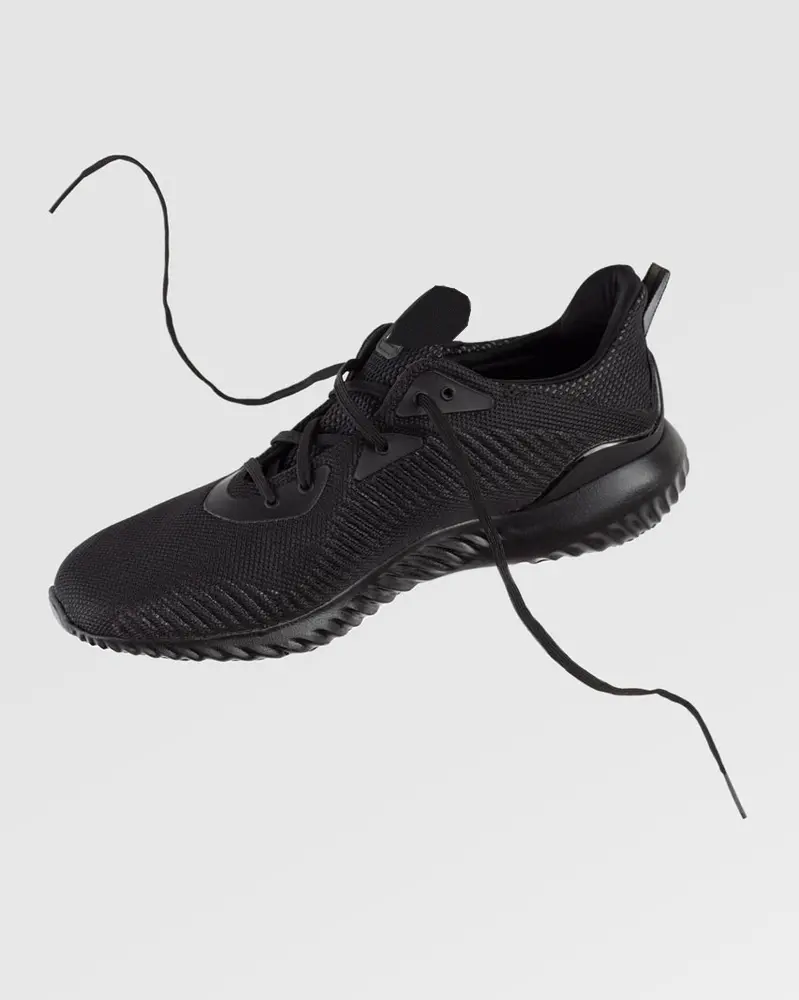
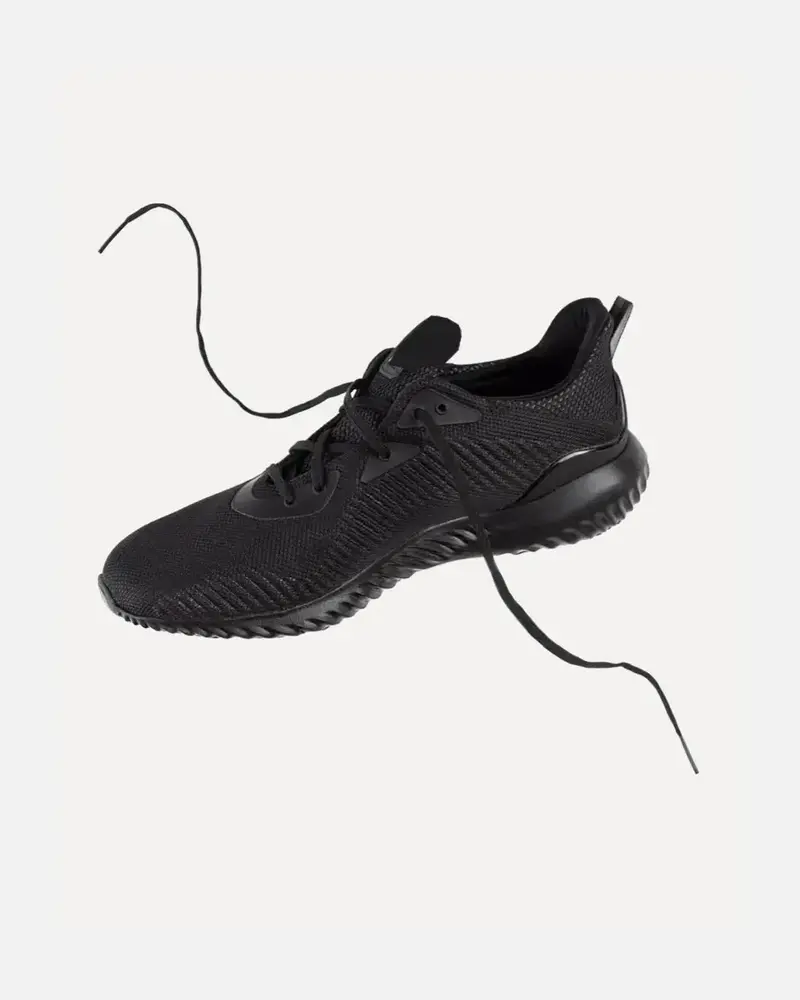
fix: polish desktop storefront
- Product photos: one neutral #f2f2f2 background and 800x1000 frame;
  sneakers reframed, bag centred, trouser shots cropped to the waistband
- ProductCard: two-line name clamp, reserved old-price line so prices
  align, discount moved next to the old price, Smart Fit moved to the
  metadata row, single-line sizes/stock row, smaller favorite button
- Visual search mockup: photo of a shoe -> visual search -> similar
  shoes only (no unrelated jacket)
- Header: "Track order" entry linking to the future /orders/track route
  (no prefetch), delivery city shown as a selectable control
- Footer: Orders and Track order links

Claude-Session: https://claude.ai/code/session_017YzJTG1c5aWEv4ukwiUPKt

diff --git a/frontend/src/components/storefront/ProductCard.tsx b/frontend/src/components/storefront/ProductCard.tsx
@@ -10,12 +10,14 @@ interface ProductCardProps {
   imageSizes: string;
 }
 
+// Visual priority: image → name → price → discount → rating / Smart Fit / stock.
 export function ProductCard({ product, imageSizes }: ProductCardProps) {
   const discount = discountPercent(product.price, product.oldPrice);
 
   return (
     <article className="group relative flex h-full flex-col overflow-hidden rounded-xl border border-line bg-white transition hover:-translate-y-0.5 hover:shadow-[0_8px_24px_rgba(27,26,25,0.08)]">
-      <div className="relative aspect-[4/5] overflow-hidden bg-[#f3f3f1]">
+      {/* All product photos share the same 4:5 frame and #f2f2f2 background. */}
+      <div className="relative aspect-[4/5] overflow-hidden bg-[#f2f2f2]">
         <Image
           src={product.image}
           alt={product.imageAlt}
@@ -23,27 +25,19 @@ export function ProductCard({ product, imageSizes }: ProductCardProps) {
           sizes={imageSizes}
           className="object-cover transition duration-300 group-hover:scale-[1.03]"
         />
-        {discount && (
-          <span className="absolute left-2.5 top-2.5 rounded-md bg-deal px-2 py-1 text-xs font-bold text-white">
-            -{discount}%
-          </span>
-        )}
-        <div className="absolute right-2.5 top-2.5 z-10">
+        <div className="absolute right-2 top-2 z-10">
           <FavoriteButton productName={product.name} />
         </div>
-        {product.smartFit && (
-          <span className="absolute bottom-2.5 left-2.5 flex items-center gap-1 rounded-md bg-fit px-2 py-1 text-[11px] font-semibold text-white">
-            <Ruler className="size-3" aria-hidden="true" />
-            Smart Fit
-          </span>
-        )}
       </div>
 
-      <div className="flex flex-1 flex-col gap-1.5 p-3.5">
-        <p className="text-[11px] font-medium uppercase tracking-wider text-muted">
+      <div className="flex flex-1 flex-col p-3">
+        <p className="truncate text-[11px] font-medium uppercase tracking-wider text-muted">
           {product.department} · {product.category}
         </p>
-        <h3 className="truncate text-sm font-semibold text-ink">
+        <h3
+          className="mt-1 line-clamp-2 min-h-10 text-sm font-semibold leading-5 text-ink"
+          title={product.name}
+        >
           {/* Product pages come later; the link keeps the card keyboard-reachable. */}
           <a
             href="#"
@@ -52,37 +46,57 @@ export function ProductCard({ product, imageSizes }: ProductCardProps) {
             {product.name}
           </a>
         </h3>
-        <p className="flex items-center gap-1 text-xs text-muted">
-          <Star className="size-3.5 fill-gold text-gold" aria-hidden="true" />
-          <span className="font-semibold text-ink">
-            {product.rating.toFixed(1)}
-          </span>
-          <span>({product.reviewCount})</span>
-          <span className="sr-only">out of 5 stars</span>
-        </p>
-        <div className="mt-auto flex flex-wrap items-baseline gap-x-2 pt-1">
-          <span
-            className={`text-base font-bold ${discount ? "text-deal" : "text-ink"}`}
+
+        <div className="mt-2">
+          <p
+            className={`text-base font-bold leading-6 ${discount ? "text-deal" : "text-ink"}`}
           >
             {formatXaf(product.price)}
-          </span>
-          {discount && product.oldPrice && (
-            <span className="text-xs text-muted line-through">
-              <span className="sr-only">Was </span>
-              {formatXaf(product.oldPrice)}
-            </span>
-          )}
+          </p>
+          {/* Reserved line keeps prices aligned whether or not an item is discounted. */}
+          <p className="flex h-5 items-center gap-1.5 text-xs">
+            {discount && product.oldPrice && (
+              <>
+                <span className="truncate text-muted line-through">
+                  <span className="sr-only">Was </span>
+                  {formatXaf(product.oldPrice)}
+                </span>
+                <span className="shrink-0 rounded bg-deal-soft px-1 font-bold text-deal">
+                  -{discount}%
+                </span>
+              </>
+            )}
+          </p>
         </div>
-        <p className="flex flex-wrap items-center justify-between gap-x-2 text-[11px]">
-          <span className="whitespace-nowrap text-muted">
-            {sizeHint(product.sizes)}
-          </span>
-          {product.stockHint && (
-            <span className="whitespace-nowrap font-semibold text-deal">
-              {product.stockHint}
+
+        <div className="mt-auto space-y-1 border-t border-line/70 pt-2 text-[11px]">
+          <p className="flex items-center justify-between gap-2">
+            <span className="flex items-center gap-1 text-muted">
+              <Star className="size-3 fill-gold text-gold" aria-hidden="true" />
+              <span className="font-semibold text-ink">
+                {product.rating.toFixed(1)}
+              </span>
+              <span>({product.reviewCount})</span>
+              <span className="sr-only">out of 5 stars</span>
             </span>
-          )}
-        </p>
+            {product.smartFit && (
+              <span className="flex shrink-0 items-center gap-1 font-semibold text-fit">
+                <Ruler className="size-3" aria-hidden="true" />
+                Smart Fit
+              </span>
+            )}
+          </p>
+          <p className="flex items-center justify-between gap-2">
+            <span className="min-w-0 truncate text-muted">
+              {sizeHint(product.sizes)}
+            </span>
+            {product.stockHint && (
+              <span className="shrink-0 font-semibold text-deal">
+                {product.stockHint}
+              </span>
+            )}
+          </p>
+        </div>
       </div>
     </article>
   );

diff --git a/frontend/src/components/storefront/VisualSearchBanner.tsx b/frontend/src/components/storefront/VisualSearchBanner.tsx
@@ -1,6 +1,8 @@
 import Image from "next/image";
 import {
+  ArrowDown,
   Camera,
+  Footprints,
   Globe,
   ImageIcon,
   ScanSearch,
@@ -20,11 +22,21 @@ const sources: { label: string; icon: LucideIcon }[] = [
   { label: "In real life", icon: Store },
 ];
 
-const similarItems = products.filter((p) =>
-  ["urban-runner-02", "flex-knit-runner", "city-bomber-jacket"].includes(
-    p.slug,
-  ),
-);
+// The scanned object is a sneaker, so every match shown is footwear.
+const similarShoes = products
+  .filter((p) => p.department === "Shoes")
+  .slice(0, 2);
+
+function FlowStep({ number, label }: { number: number; label: string }) {
+  return (
+    <p className="flex items-center gap-2 text-xs font-bold uppercase tracking-wider text-muted">
+      <span className="flex size-5 items-center justify-center rounded-full bg-cream text-[11px] text-ink">
+        {number}
+      </span>
+      {label}
+    </p>
+  );
+}
 
 export function VisualSearchBanner() {
   return (
@@ -75,10 +87,11 @@ export function VisualSearchBanner() {
             </div>
           </div>
 
-          {/* Illustration of the planned flow, built from local demo products. */}
+          {/* Illustration of the planned flow: photo of a shoe → visual search → similar shoes. */}
           <div aria-hidden="true" className="mx-auto w-full max-w-md">
             <div className="rounded-2xl bg-white p-4 text-ink">
-              <div className="relative aspect-[4/3] overflow-hidden rounded-xl bg-[#f6f6f6]">
+              <FlowStep number={1} label="Photo of a shoe" />
+              <div className="relative mt-2 aspect-[16/10] overflow-hidden rounded-xl bg-[#f2f2f2]">
                 <Image
                   src="/images/categories/sneakers.webp"
                   alt=""
@@ -86,21 +99,26 @@ export function VisualSearchBanner() {
                   sizes="420px"
                   className="object-cover"
                 />
-                <span className="absolute left-[22%] top-[24%] h-[52%] w-[56%] rounded-lg border-2 border-dashed border-deal" />
-                <span className="absolute left-3 top-3 rounded-md bg-ink px-2 py-1 text-[11px] font-semibold text-white">
-                  Your photo
-                </span>
+                <span className="absolute left-[18%] top-[12%] h-[76%] w-[64%] rounded-lg border-2 border-dashed border-deal" />
               </div>
-              <p className="mt-4 text-xs font-bold uppercase tracking-wider text-muted">
-                Similar items
-              </p>
+
+              <div className="my-3 flex items-center gap-3">
+                <span className="h-px flex-1 bg-line" />
+                <span className="flex items-center gap-1.5 rounded-full bg-ink px-3 py-1.5 text-[11px] font-semibold text-white">
+                  <ScanSearch className="size-3.5" />2 · Visual search
+                  <ArrowDown className="size-3.5" />
+                </span>
+                <span className="h-px flex-1 bg-line" />
+              </div>
+
+              <FlowStep number={3} label="Similar shoes" />
               <ul className="mt-2 grid grid-cols-3 gap-2">
-                {similarItems.map((item) => (
+                {similarShoes.map((item) => (
                   <li
                     key={item.id}
                     className="overflow-hidden rounded-lg border border-line"
                   >
-                    <div className="relative aspect-square bg-[#f3f3f1]">
+                    <div className="relative aspect-square bg-[#f2f2f2]">
                       <Image
                         src={item.image}
                         alt=""
@@ -117,6 +135,15 @@ export function VisualSearchBanner() {
                     </p>
                   </li>
                 ))}
+                <li className="flex flex-col items-center justify-center gap-1 rounded-lg border border-dashed border-line bg-cream/60 p-2 text-center">
+                  <Footprints className="size-5 text-muted" />
+                  <span className="text-[11px] font-semibold">
+                    More sneakers
+                  </span>
+                  <span className="text-[10px] text-muted">
+                    Sorted by similarity
+                  </span>
+                </li>
               </ul>
             </div>
           </div>

diff --git a/frontend/src/components/storefront/Header.tsx b/frontend/src/components/storefront/Header.tsx
@@ -1,12 +1,15 @@
 "use client";
 
 import { useState } from "react";
+import Link from "next/link";
 import {
   Camera,
+  ChevronDown,
   Flame,
   Heart,
   MapPin,
   Menu,
+  Package,
   Search,
   ShoppingBag,
   User,
@@ -16,10 +19,12 @@ import { mainNavigation } from "@/data/navigation";
 import { Container } from "./Container";
 import { Logo } from "./Logo";
 
+// "/orders/track" is a future route; the other pages arrive in later tasks.
 const accountLinks = [
-  { label: "Account", icon: User },
-  { label: "Favorites", icon: Heart },
-  { label: "Cart", icon: ShoppingBag },
+  { label: "Track order", href: "/orders/track", icon: Package },
+  { label: "Account", href: "#", icon: User },
+  { label: "Favorites", href: "#", icon: Heart },
+  { label: "Cart", href: "#", icon: ShoppingBag },
 ];
 
 export function Header() {
@@ -86,10 +91,12 @@ export function Header() {
             aria-label="Account"
             className="ml-auto flex items-center sm:gap-1"
           >
-            {accountLinks.map(({ label, icon: Icon }) => (
-              <a
+            {accountLinks.map(({ label, href, icon: Icon }) => (
+              <Link
                 key={label}
-                href="#"
+                href={href}
+                // Target pages don't exist yet; don't prefetch them.
+                prefetch={false}
                 aria-label={label}
                 className="flex flex-col items-center gap-0.5 rounded-md px-2 py-1.5 text-[11px] font-medium text-ink hover:bg-cream sm:px-3"
               >
@@ -97,7 +104,7 @@ export function Header() {
                 <span aria-hidden="true" className="hidden lg:inline">
                   {label}
                 </span>
-              </a>
+              </Link>
             ))}
           </nav>
         </Container>
@@ -127,11 +134,18 @@ export function Header() {
                 </a>
               ))}
             </nav>
-            <p className="hidden items-center gap-1.5 text-xs text-muted lg:flex">
-              <MapPin className="size-3.5" aria-hidden="true" />
-              Delivering to{" "}
+            {/* Demo destination. The city picker comes with the address task. */}
+            <button
+              type="button"
+              title="Choose delivery city (coming soon)"
+              aria-label="Delivery city: Douala. Choose delivery city, coming soon"
+              className="hidden items-center gap-1.5 rounded-md border border-line px-2.5 py-1.5 text-xs text-muted hover:border-ink/40 hover:bg-cream lg:flex"
+            >
+              <MapPin className="size-3.5 text-deal" aria-hidden="true" />
+              Deliver to
               <span className="font-semibold text-ink">Douala</span>
-            </p>
+              <ChevronDown className="size-3.5 text-ink" aria-hidden="true" />
+            </button>
           </Container>
         </div>
       </header>

diff --git a/frontend/src/components/storefront/FavoriteButton.tsx b/frontend/src/components/storefront/FavoriteButton.tsx
@@ -17,10 +17,10 @@ export function FavoriteButton({ productName }: { productName: string }) {
           : `Add ${productName} to favorites`
       }
       onClick={() => setFavorite((value) => !value)}
-      className="flex size-9 items-center justify-center rounded-full bg-white/95 text-ink shadow-sm transition hover:scale-105"
+      className="flex size-8 items-center justify-center rounded-full bg-white text-ink shadow-sm ring-1 ring-black/5 transition hover:scale-105"
     >
       <Heart
-        className={`size-[18px] ${favorite ? "fill-deal text-deal" : ""}`}
+        className={`size-4 ${favorite ? "fill-deal text-deal" : ""}`}
         aria-hidden="true"
       />
     </button>

diff --git a/frontend/src/data/navigation.ts b/frontend/src/data/navigation.ts
@@ -37,7 +37,8 @@ export const footerNavigation: { title: string; links: NavLink[] }[] = [
     title: "Account",
     links: [
       { label: "Profile", href: "#" },
-      { label: "Orders", href: "#" },
+      { label: "Orders", href: "/orders" },
+      { label: "Track order", href: "/orders/track" },
       { label: "Favorites", href: "#" },
       { label: "Fit Profile", href: "#smart-fit" },
     ],

diff --git a/frontend/public/images/CREDITS.md b/frontend/public/images/CREDITS.md
@@ -2,6 +2,7 @@
 
 Demo imagery for the storefront. All files were resized and converted to WebP;
 sneaker photos were cropped and small third-party logos were retouched out.
+Product photos share one 4:5 frame (800×1000) and a neutral #f2f2f2 background.
 None of these images show real KamerWear products.
 
 | Folder / files | Source | License |
